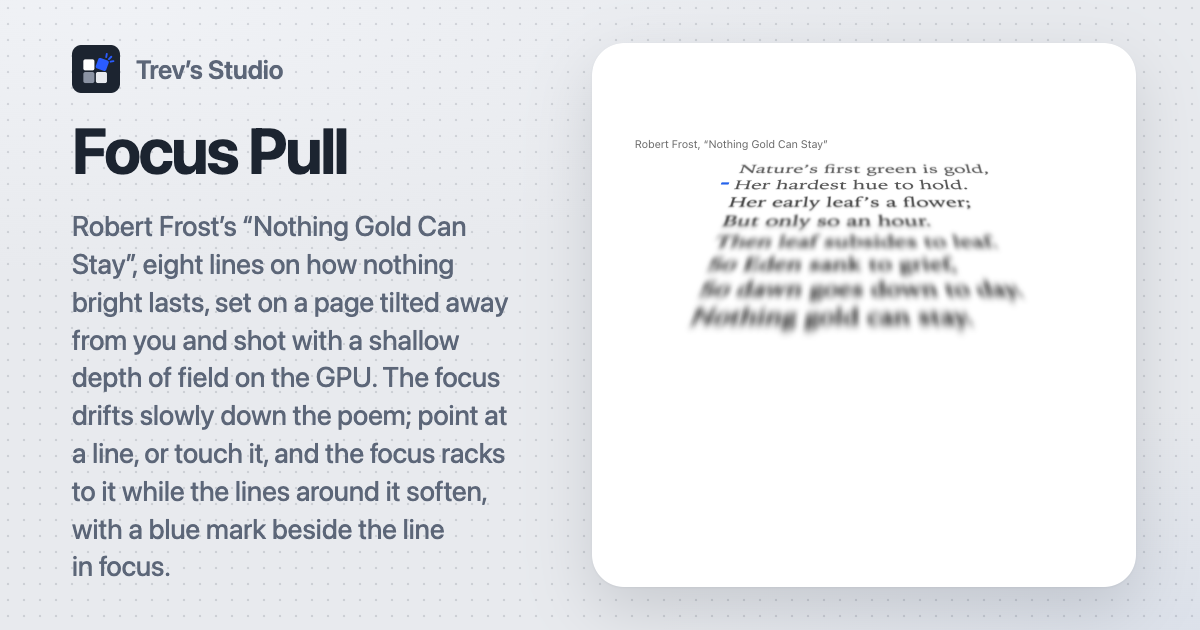
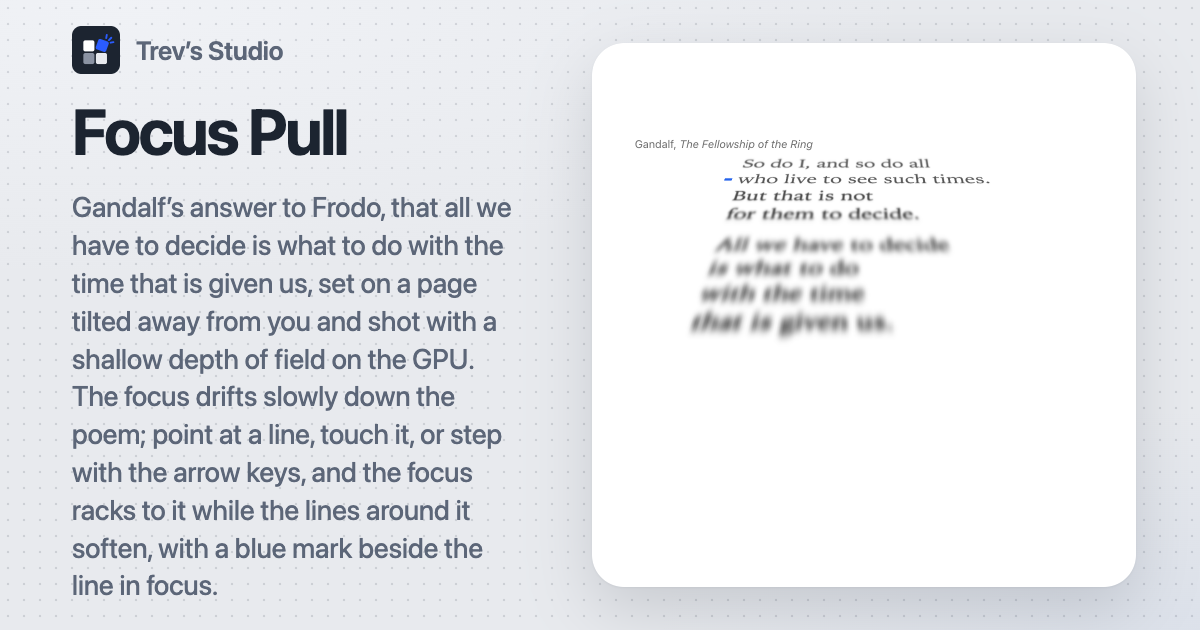
Set Gandalf's line in Focus Pull and give Found Poem the first day of the rest of my life

Changed region(s): [[0.0617, 0.0302, 0.4317, 0.9651], [0.5242, 0.2111, 0.8633, 0.5429]]

diff --git a/apps/web/src/live/text/FoundPoem/FoundPoem.tsx b/apps/web/src/live/text/FoundPoem/FoundPoem.tsx
@@ -1,21 +1,22 @@
 import { useEffect, useLayoutEffect, useRef, useState, type KeyboardEvent } from "react";
-import { cascadeDelays, glide, play, positionIn, type Move, type Playback } from "@/live/shared/Stage/choreography";
+import { cascadeDelays, glide, MOTION, play, positionIn, type Move, type Playback } from "@/live/shared/Stage/choreography";
 import { Stage } from "@/live/shared/Stage/Stage";
 import stageStyles from "@/live/shared/Stage/Stage.module.css";
 import { keptPoem, moveFocus, toggle } from "./poem";
 import styles from "./FoundPoem.module.css";
 
-/** Gandalf's answer to Frodo in The Fellowship of the Ring. */
 const PASSAGE =
-  "So do I, and so do all who live to see such times. But that is not for them to decide. All we have to decide is what to do with the time that is given us.";
-const SOURCE = "Gandalf, The Fellowship of the Ring";
+  "Today is the very first day of the rest of my life. This is the beginning of a new day. I have been given this day to use as I will. I can waste it … or use it for good, but what I do today is important, because I am exchanging a day of my life for it. When tomorrow comes, this day will be gone forever, leaving in its place something I have traded for it. I want it to be gain and not loss; good and not evil; success and not failure; in order that I shall not regret the price I have paid for it. I will try just for today, for you will never fail until you stop trying.";
+const SOURCE = "Author unknown";
 
-/** A poem already marked when the card opens, so there is something to erase: “all who live decide what to do with the time given us.” */
-const SUGGESTED = [6, 7, 8, 25, 27, 28, 29, 30, 31, 32, 35, 36];
+/** A poem already marked when the card opens, so there is something to erase: “Today I am exchanging a day of my life I shall not regret the price.” */
+const SUGGESTED = [0, 49, 50, 51, 52, 53, 54, 55, 56, 98, 99, 100, 101, 102, 103];
 
 /** The erased words are well on their way out before the kept ones start to gather. */
 const GATHER_DELAY_MS = 280;
 const GATHER_STAGGER_MS = 24;
+/** Once gathered, the poem comes forward to this size, or as near as the passage's space allows. */
+const POEM_GROW = 1.35;
 
 type Mode = "passage" | "poem";
 
@@ -36,6 +37,15 @@ function gatherMoves(root: Element, origins: Map<string | undefined, { x: number
     const at = positionIn(root, element);
     return [{ element, dx: origin.x - at.x, dy: origin.y - at.y }];
   });
+}
+
+/** Sets how far the gathered poem grows, and how long it waits for the words to land first. */
+function growPoem(sheet: HTMLElement, poem: HTMLElement | null, afterMs: number) {
+  const frame = poem?.parentElement;
+  if (!poem || !frame) return;
+  const grow = Math.max(1, Math.min(POEM_GROW, frame.clientHeight / Math.max(1, poem.offsetHeight)));
+  sheet.style.setProperty("--poem-grow", String(grow));
+  sheet.style.setProperty("--poem-grow-after", `${afterMs}ms`);
 }
 
 export function FoundPoem({ passage = PASSAGE, source = SOURCE, suggested = SUGGESTED }: { passage?: string; source?: string; suggested?: readonly number[] }) {
@@ -63,6 +73,7 @@ export function FoundPoem({ passage = PASSAGE, source = SOURCE, suggested = SUGG
     const origins = drawnAt(root, gathering ? keptInPassage : poemWords);
     for (const playback of running.current) playback.cancel();
     const moves = gatherMoves(root, origins, gathering ? poemWords : keptInPassage);
+    if (gathering) growPoem(root, poemRef.current, GATHER_DELAY_MS + Math.max(0, moves.length - 1) * GATHER_STAGGER_MS + MOTION.turnMs);
     running.current = gathering
       ? [play(erased, "recede", { staggerMs: 12 }), glide(moves, { delayMs: GATHER_DELAY_MS, staggerMs: GATHER_STAGGER_MS })]
       : [glide(moves, { staggerMs: GATHER_STAGGER_MS }), play(erased, "rise", { delayMs: 160, staggerMs: 12 })];

diff --git a/apps/web/src/live/shaders/FocusPull/preview.tsx b/apps/web/src/live/shaders/FocusPull/preview.tsx
@@ -3,7 +3,7 @@ import type { CardMeta } from "@/lib/types";
 
 export const meta: CardMeta = {
   title: "Focus Pull",
-  description: "Robert Frost’s “Nothing Gold Can Stay”, eight lines on how nothing bright lasts, set on a page tilted away from you and shot with a shallow depth of field on the GPU. The focus drifts slowly down the poem; point at a line, touch it, or step with the arrow keys, and the focus racks to it while the lines around it soften, with a blue mark beside the line in focus.",
+  description: "Gandalf’s answer to Frodo, that all we have to decide is what to do with the time that is given us, set on a page tilted away from you and shot with a shallow depth of field on the GPU. The focus drifts slowly down the poem; point at a line, touch it, or step with the arrow keys, and the focus racks to it while the lines around it soften, with a blue mark beside the line in focus.",
   size: "wide",
   surface: {
     light: { swatch: "paper", content: ["#000000", "#2563eb"] },

diff --git a/apps/web/src/live/text/FoundPoem/FoundPoem.module.css b/apps/web/src/live/text/FoundPoem/FoundPoem.module.css
@@ -28,8 +28,8 @@
 .passage,
 .poem {
   width: min(100%, 36rem);
-  font-size: clamp(1.25rem, 3.4cqw, 1.875rem);
-  line-height: 1.4;
+  font-size: clamp(0.875rem, min(2.8cqw, 5cqh), 1.375rem);
+  line-height: 1.36;
 }
 
 .poemFrame {
@@ -38,10 +38,16 @@
   display: grid;
   place-items: center;
   pointer-events: none;
+  transition: transform 200ms var(--stage-fade-ease);
+}
+
+.sheet[data-mode="poem"] .poemFrame {
+  transform: scale(var(--poem-grow, 1));
+  transition: transform 700ms var(--stage-fade-ease) var(--poem-grow-after, 0ms);
 }
 
 .poem {
-  max-width: 20em;
+  max-width: min(20em, 100% / 1.35);
   margin: 0;
   text-align: center;
   text-wrap: balance;
@@ -150,11 +156,14 @@
 
 @media (max-width: 48rem) {
   .stage {
+    gap: 16px;
     padding: 24px 16px;
   }
 }
 
 @media (prefers-reduced-motion: reduce) {
+  .poemFrame,
+  .sheet[data-mode="poem"] .poemFrame,
   .word,
   .primary,
   .quiet {

diff --git a/apps/web/src/live/shaders/FocusPull/poem.ts b/apps/web/src/live/shaders/FocusPull/poem.ts
@@ -1,15 +1,16 @@
 import { DISPLAY_FONT } from "@/live/shared/Stage/tone";
 
-/** Robert Frost, “Nothing Gold Can Stay” (1923), which is in the public domain. An empty line is a stanza break. */
+/** Gandalf to Frodo in The Fellowship of the Ring. An empty line is a stanza break. */
 export const POEM: readonly string[] = [
-  "Nature’s first green is gold,",
-  "Her hardest hue to hold.",
-  "Her early leaf’s a flower;",
-  "But only so an hour.",
-  "Then leaf subsides to leaf.",
-  "So Eden sank to grief,",
-  "So dawn goes down to day.",
-  "Nothing gold can stay.",
+  "So do I, and so do all",
+  "who live to see such times.",
+  "But that is not",
+  "for them to decide.",
+  "",
+  "All we have to decide",
+  "is what to do",
+  "with the time",
+  "that is given us.",
 ];
 
 /** Line height and margins as shares of the type size. */

diff --git a/apps/web/src/live/text/FoundPoem/preview.tsx b/apps/web/src/live/text/FoundPoem/preview.tsx
@@ -3,7 +3,7 @@ import type { CardMeta } from "@/lib/types";
 
 export const meta: CardMeta = {
   title: "Found Poem",
-  description: "Gandalf’s words to Frodo about the time that is given us, ready to make an erasure poem from. Tap the words to keep and they turn blue; erase the rest and every other word blurs away while the kept ones glide together into the poem. Bring the words back to try another.",
+  description: "A meditation on today as the first day of the rest of your life, traded away for whatever you make of it, ready to make an erasure poem from. Tap the words to keep and they turn blue; erase the rest and every other word blurs away while the kept ones glide together into the poem. Bring the words back to try another.",
   size: "wide",
   surface: {
     light: { swatch: "paper", content: ["#000000", "#2563eb"] },

diff --git a/apps/web/src/live/shaders/FocusPull/FocusPull.tsx b/apps/web/src/live/shaders/FocusPull/FocusPull.tsx
@@ -347,7 +347,7 @@ export function FocusPull() {
       </div>
       <p className={stageStyles.srOnly}>{POEM.filter(Boolean).join(" ")}</p>
       <p className={`${stageStyles.support} ${styles.credit}`} data-reveal>
-        Robert Frost, “Nothing Gold Can Stay”
+        Gandalf, <cite>The Fellowship of the Ring</cite>
       </p>
     </Stage>
   );
